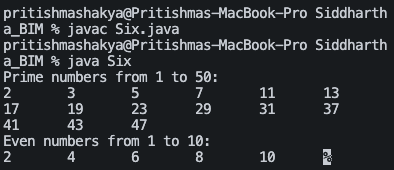
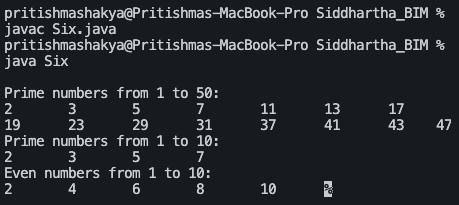
Update

diff --git a/BIM(2nd Sem)/Java/Lab_Report_5/Siddhartha_BIM/Six.java b/BIM(2nd Sem)/Java/Lab_Report_5/Siddhartha_BIM/Six.java
@@ -21,7 +21,7 @@ class SimpleCalculator extends Calculator {
             x = y;
             y = temp;
         }
-        System.out.println("Prime numbers from " + x + " to " + y + ":");
+        System.out.println("\nPrime numbers from " + x + " to " + y + ":");
         for (int i = x; i <= y; i++) {
             boolean isPrime = true;
             for (int j = 2; j < i; j++) {
@@ -61,6 +61,7 @@ public class Six {
         SimpleCalculator sc = new SimpleCalculator();
         // Call methods
         sc.calcPrime(1, 50);
+        sc.calcPrime(1, 10);
         sc.calcEven(1, 10);
     }
 }

diff --git a/BIM(2nd Sem)/Java/Lab_Report_5/Siddhartha_BIM/Two.java b/BIM(2nd Sem)/Java/Lab_Report_5/Siddhartha_BIM/Two.java
@@ -38,8 +38,10 @@ class Student {
             return "Second Division";
         } else if (grade == "C") {
             return "Pass";
-        } else {
+        } else if (grade == "D") {
             return "Fail";
+        } else {
+            return "Invalid";
         }
     }
 
